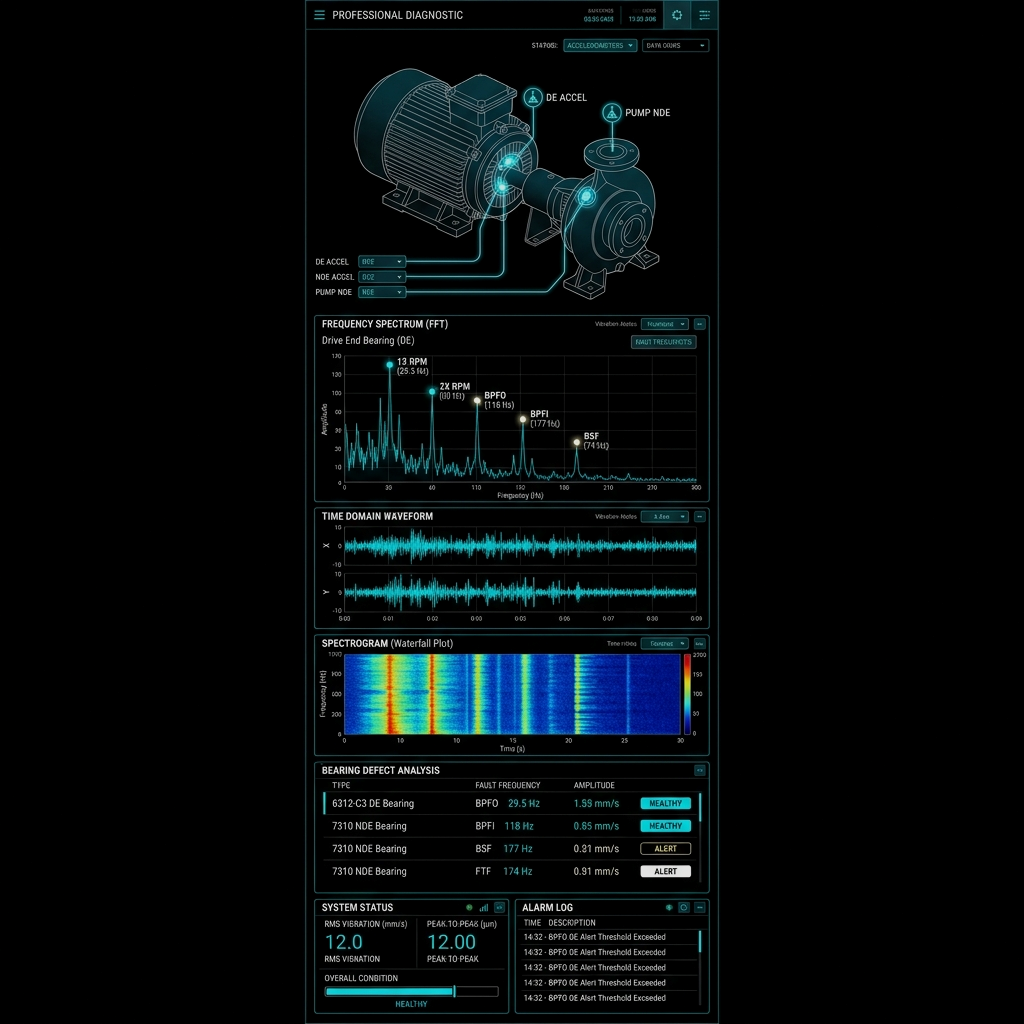
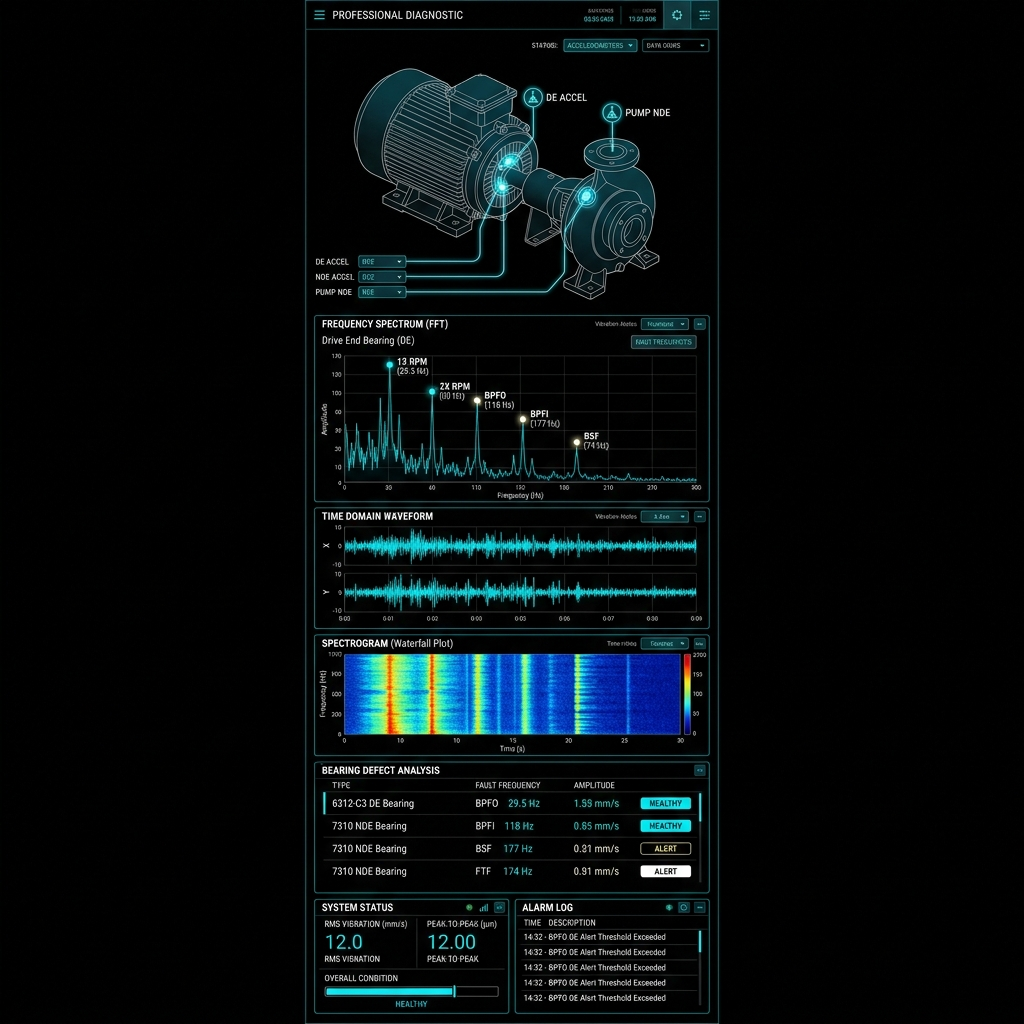
Add files via upload

diff --git a/crop_image.py b/crop_image.py
@@ -1,4 +1,4 @@
-from PIL import Image, ImageEnhance
+from PIL import Image
 import sys
 import shutil
 
@@ -14,14 +14,8 @@ try:
     if bbox:
         img = img.crop(bbox)
         
-    # Slightly dim it so it sits in the background, but keep contrast high
-    enhancer_b = ImageEnhance.Brightness(img)
-    img = enhancer_b.enhance(0.75)
-    
-    enhancer_c = ImageEnhance.Contrast(img)
-    img = enhancer_c.enhance(1.2)
-    
+    # ABSOLUTELY NO DIMMING. Max brightness, max contrast native to the generated image.
     img.save('bg_pattern.png')
-    print("Successfully saved highly detailed vibration cropped image!")
+    print("Successfully saved RAW highly detailed vibration cropped image with NO DIMMING!")
 except Exception as e:
     print(f"Error: {e}")